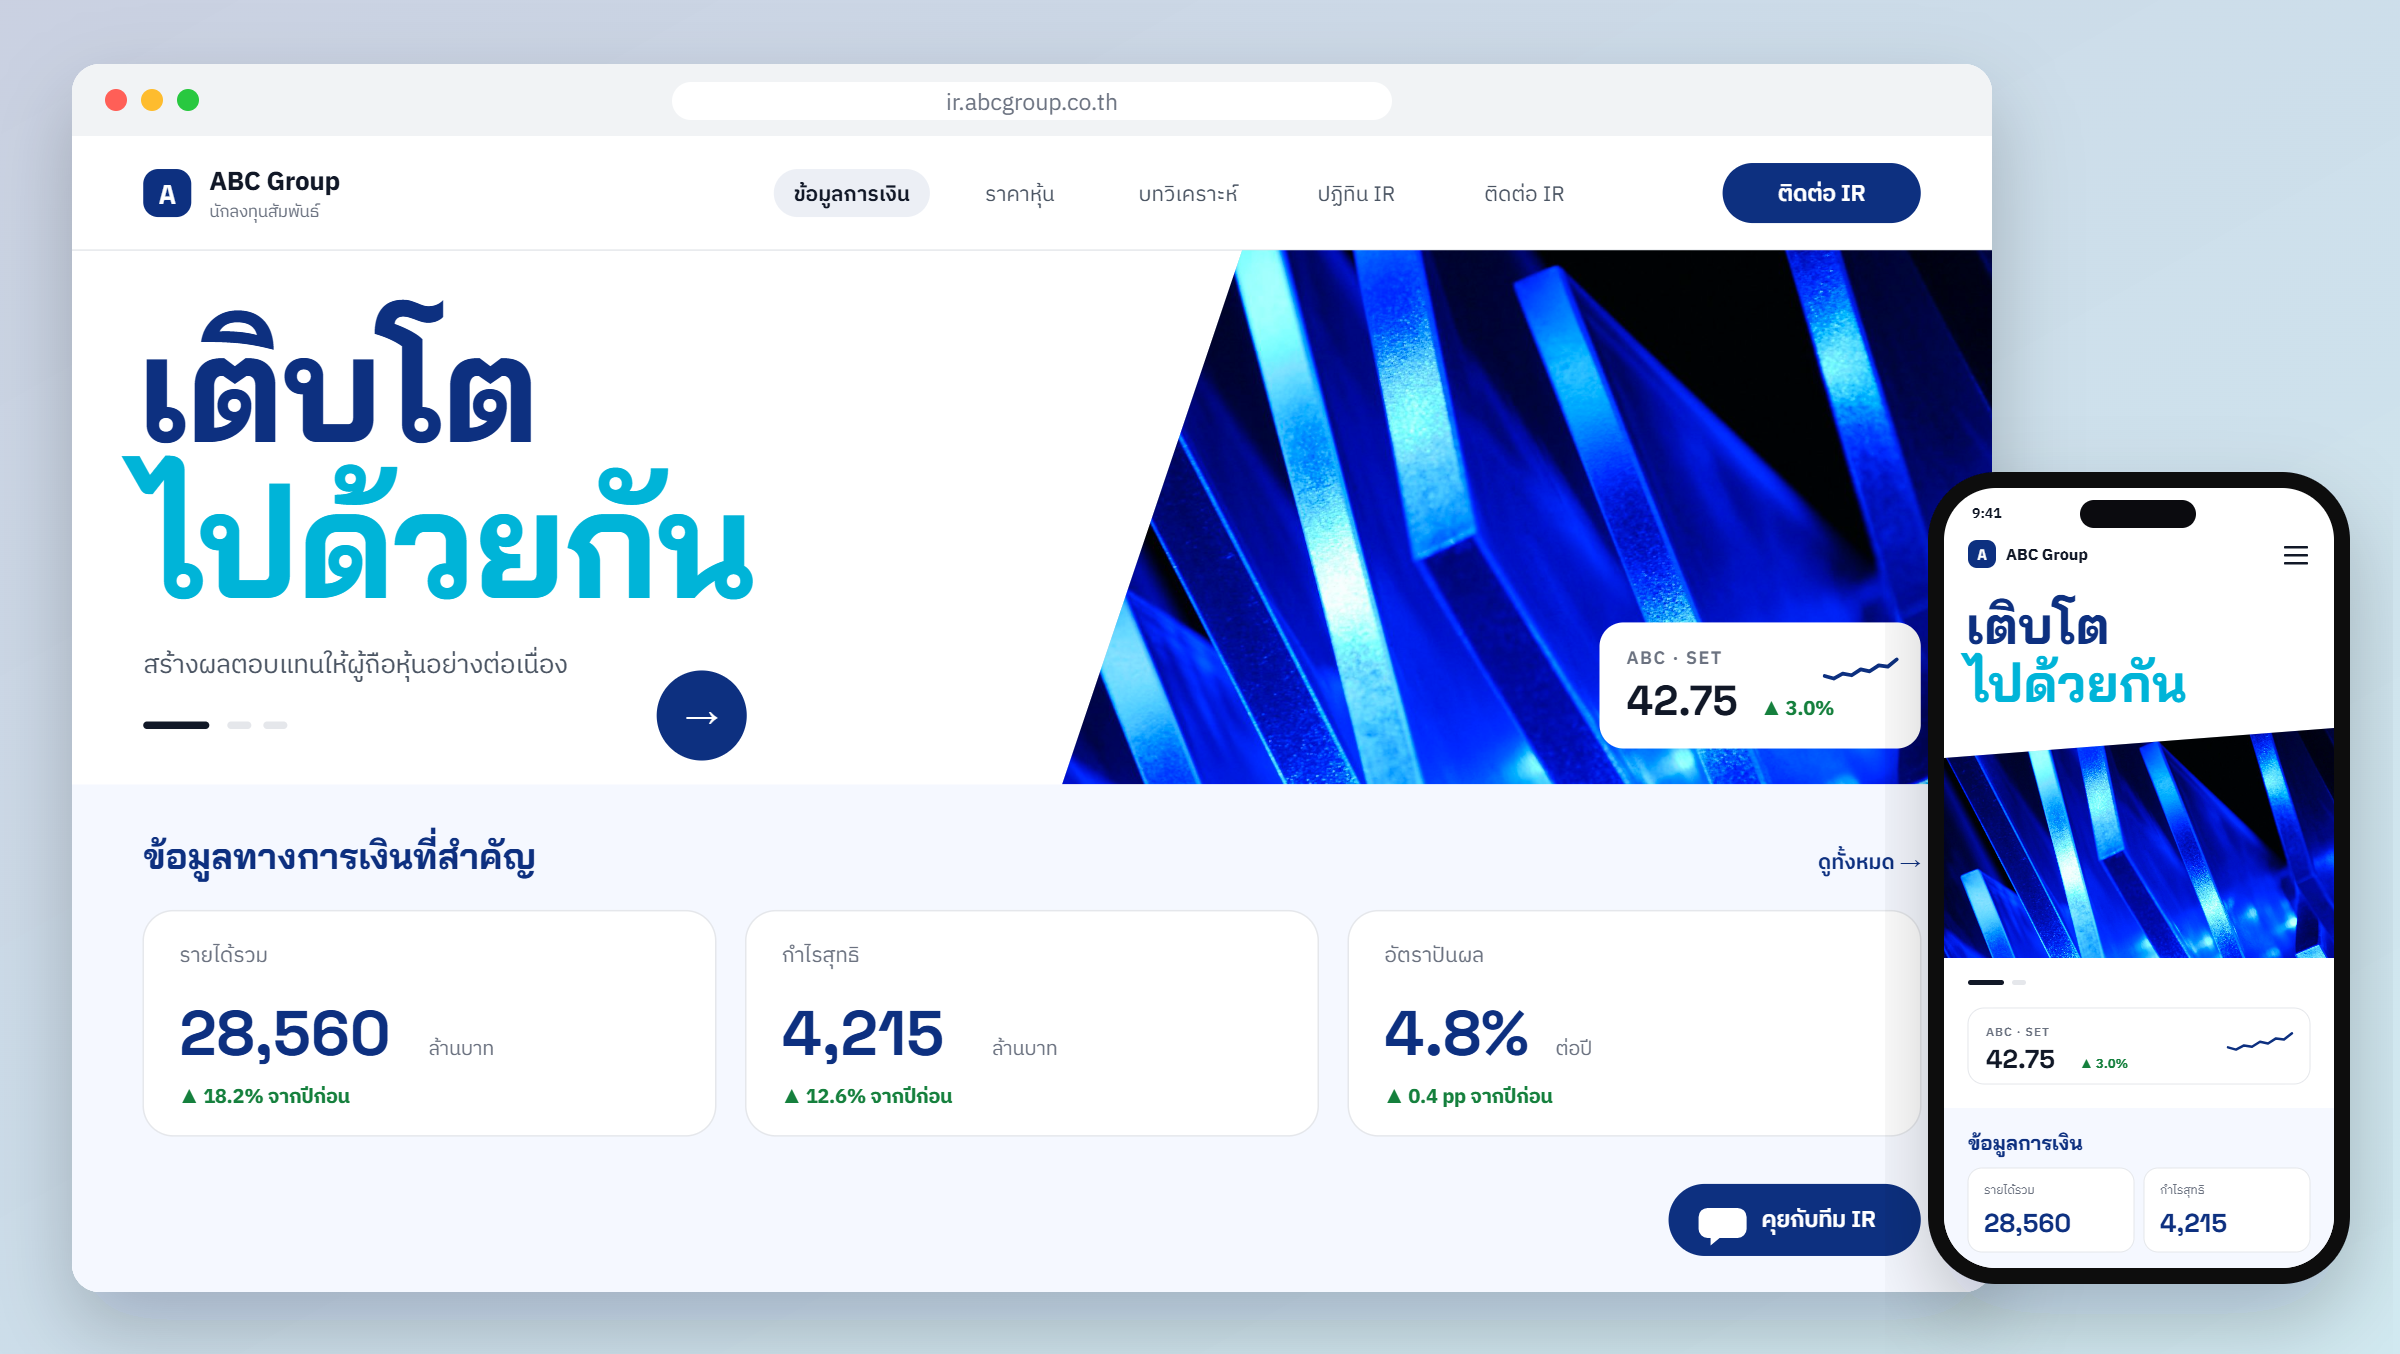
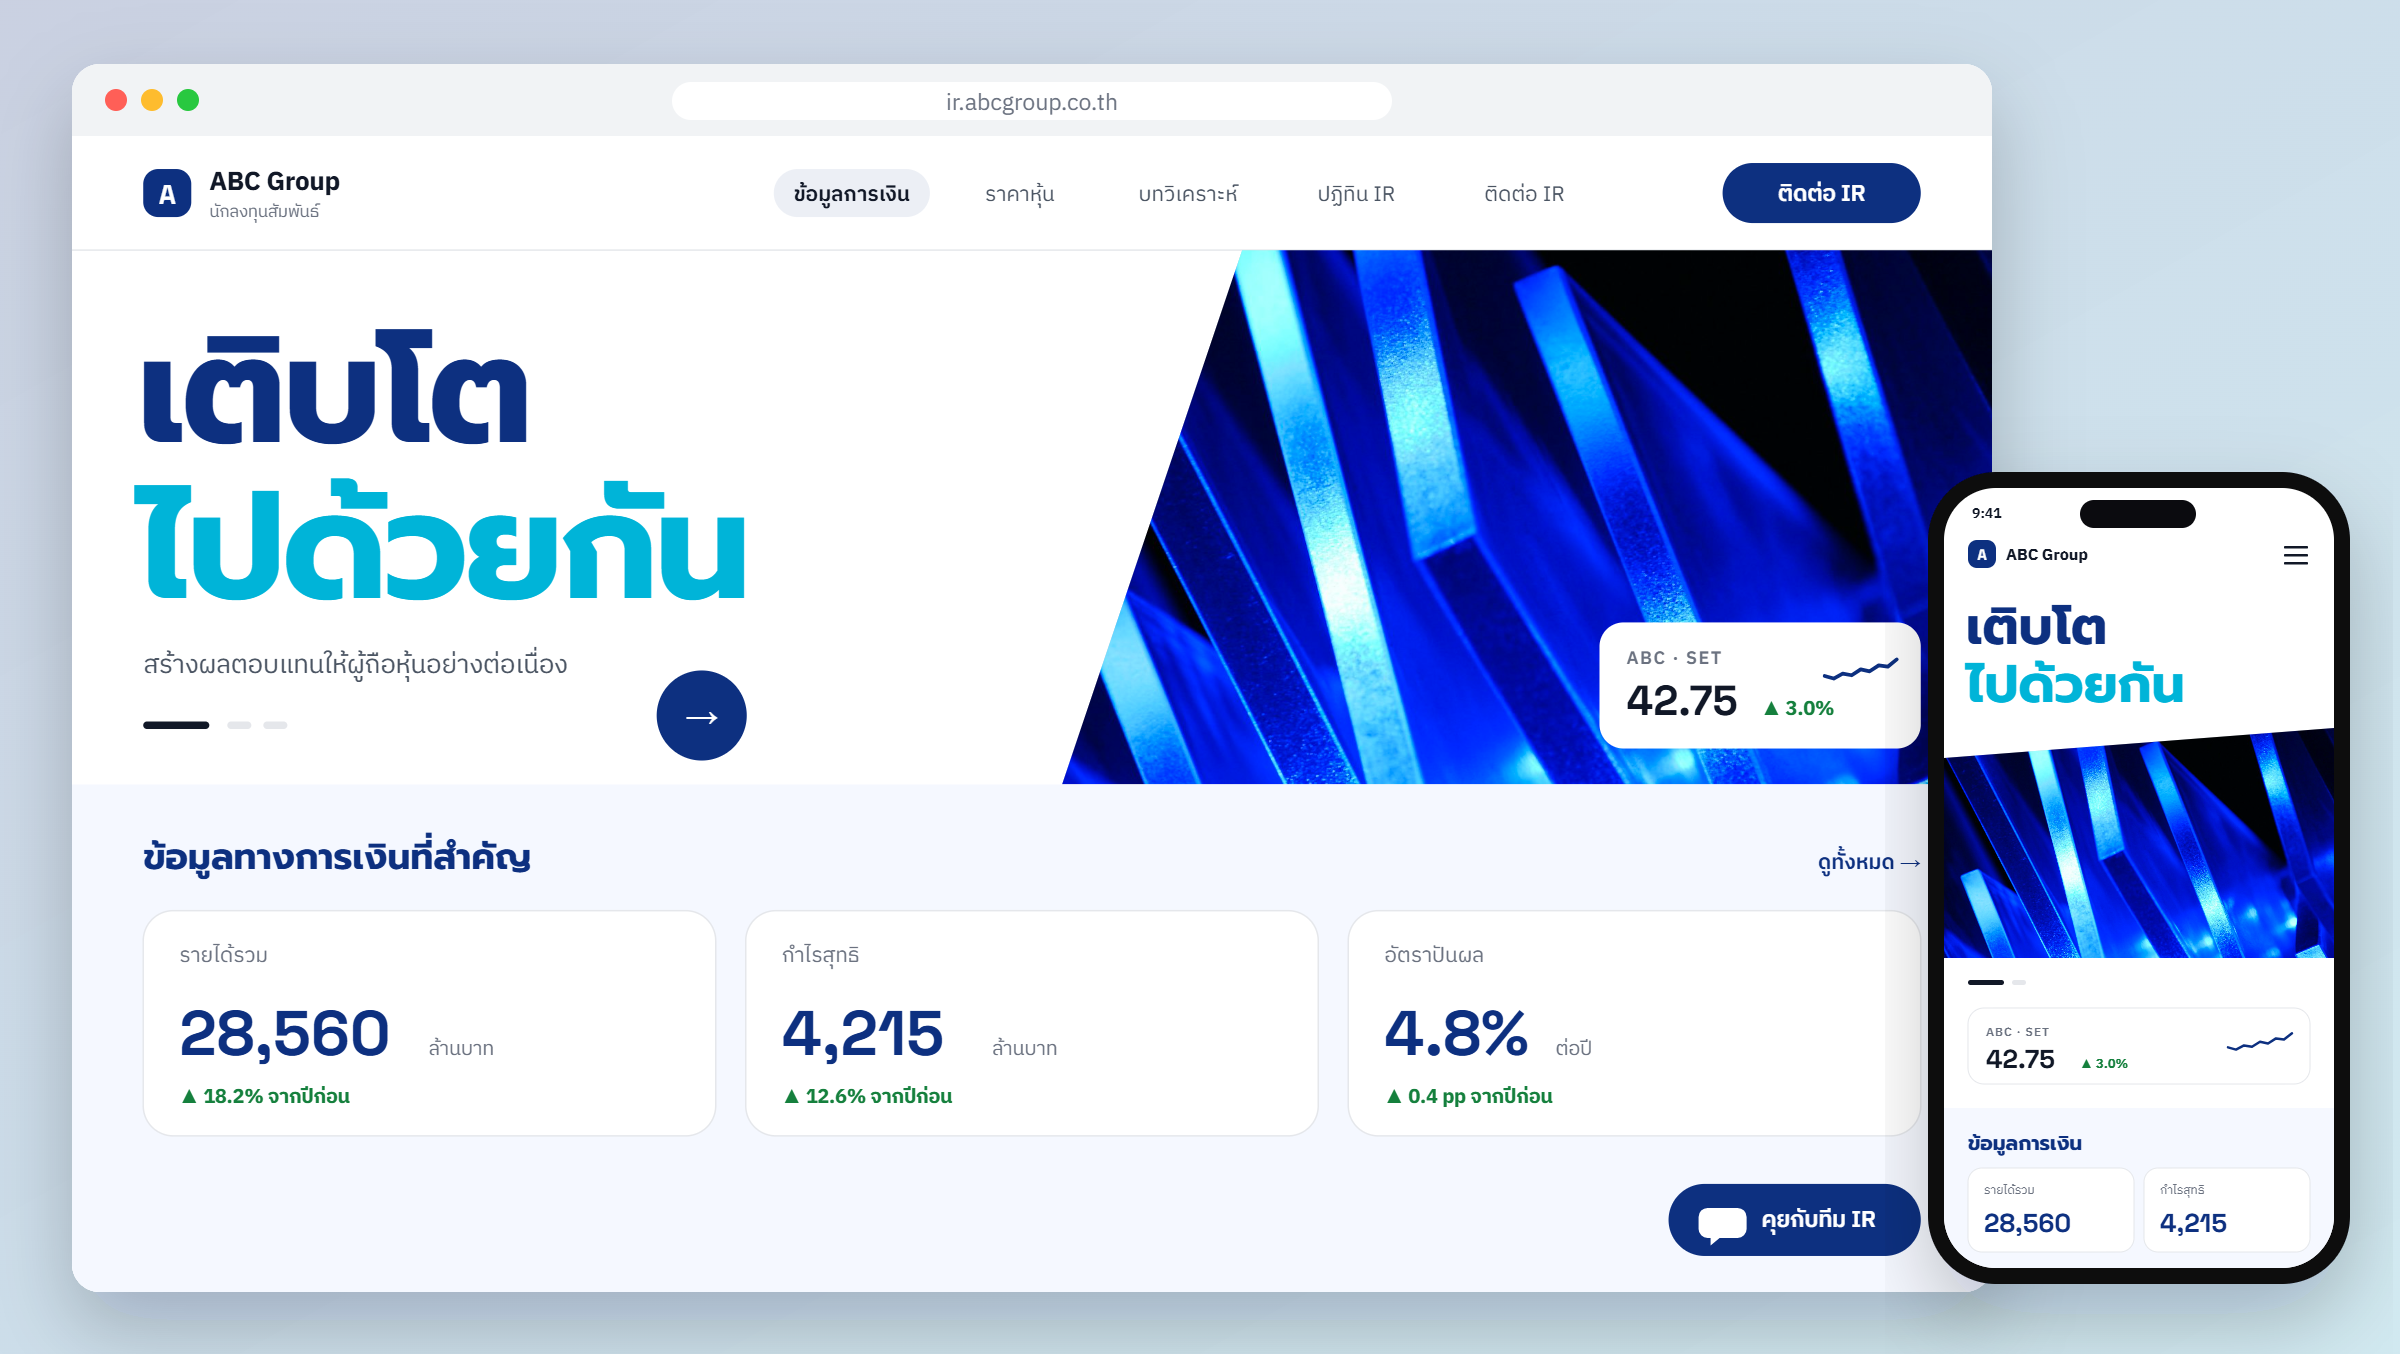
Fonts: Prompt replaces Bai Jamjuree for Modern Tech (loopless Thai)
Bai Jamjuree's Thai glyphs carry small loops, which the loopless-only rule rules
out. Prompt is loopless and geometric, a match for Space Grotesk. Direction
overview PNGs re-exported.

diff --git a/src/app/layout.tsx b/src/app/layout.tsx
@@ -1,5 +1,5 @@
 import type { Metadata } from "next";
-import { Anuphan, Bai_Jamjuree, Fraunces, IBM_Plex_Sans_Thai, Inter, Kanit, Manrope, Noto_Sans_Thai, Sora, Space_Grotesk } from "next/font/google";
+import { Anuphan, Fraunces, IBM_Plex_Sans_Thai, Inter, Kanit, Manrope, Noto_Sans_Thai, Prompt, Sora, Space_Grotesk } from "next/font/google";
 import "./globals.css";
 import { Header } from "@/components/Header";
 import { RealtimeSync } from "@/components/RealtimeSync";
@@ -30,7 +30,7 @@ const sora = Sora({ variable: "--font-sora", subsets: ["latin"], preload: false 
 // Thai counterparts for each pairing — the Latin heading fonts above have no Thai glyphs.
 const notoSansThai = Noto_Sans_Thai({ variable: "--font-noto-sans-thai", subsets: ["thai"], preload: false });
 const anuphan = Anuphan({ variable: "--font-anuphan", subsets: ["thai"], weight: ["600", "700"], preload: false });
-const baiJamjuree = Bai_Jamjuree({ variable: "--font-bai-jamjuree", subsets: ["thai"], weight: ["600", "700"], preload: false });
+const prompt = Prompt({ variable: "--font-prompt", subsets: ["thai"], weight: ["600", "700"], preload: false });
 const kanit = Kanit({ variable: "--font-kanit", subsets: ["thai"], weight: ["600", "700"], preload: false });
 
 export const metadata: Metadata = {
@@ -42,7 +42,7 @@ export default function RootLayout({
   children,
 }: Readonly<{ children: React.ReactNode }>) {
   return (
-    <html lang="th" className={`${plex.variable} ${inter.variable} ${fraunces.variable} ${manrope.variable} ${spaceGrotesk.variable} ${sora.variable} ${notoSansThai.variable} ${anuphan.variable} ${baiJamjuree.variable} ${kanit.variable} h-full`}>
+    <html lang="th" className={`${plex.variable} ${inter.variable} ${fraunces.variable} ${manrope.variable} ${spaceGrotesk.variable} ${sora.variable} ${notoSansThai.variable} ${anuphan.variable} ${prompt.variable} ${kanit.variable} h-full`}>
       <body className="min-h-full flex flex-col bg-ir-bg text-ir-t1">
         <RealtimeSync />
         <Header />

diff --git a/src/lib/fonts.ts b/src/lib/fonts.ts
@@ -5,7 +5,7 @@
 export const FONT_PAIRINGS: Record<string, { heading: string; thai: string; body: string; note: string }> = {
   "premium-corporate": { heading: "Fraunces", thai: "Noto Sans Thai", body: "Inter", note: "Serif ที่ดูมีระดับ คู่กับอักษรไทยไม่มีหัวที่เรียบ เป็นทางการ" },
   "esg-focused":       { heading: "Manrope", thai: "Anuphan", body: "Inter", note: "Humanist sans อบอุ่น เป็นมิตร" },
-  "modern-tech":       { heading: "Space Grotesk", thai: "Bai Jamjuree", body: "Inter", note: "Geometric sans ทันสมัย มีเอกลักษณ์" },
+  "modern-tech":       { heading: "Space Grotesk", thai: "Prompt", body: "Inter", note: "Geometric sans ทันสมัย มีเอกลักษณ์" },
   "growth-oriented":   { heading: "Sora", thai: "Kanit", body: "Inter", note: "Grotesk เน้นความชัดของตัวเลข" },
 };
 export const DEFAULT_PAIRING = { heading: "Manrope", thai: "Anuphan", body: "Inter", note: "คู่ฟอนต์อเนกประสงค์ อ่านง่ายทุกขนาด" };
@@ -19,7 +19,7 @@ const FONT_VARS: Record<string, string> = {
   Inter: "--font-inter",
   "Noto Sans Thai": "--font-noto-sans-thai",
   Anuphan: "--font-anuphan",
-  "Bai Jamjuree": "--font-bai-jamjuree",
+  Prompt: "--font-prompt",
   Kanit: "--font-kanit",
 };
 
